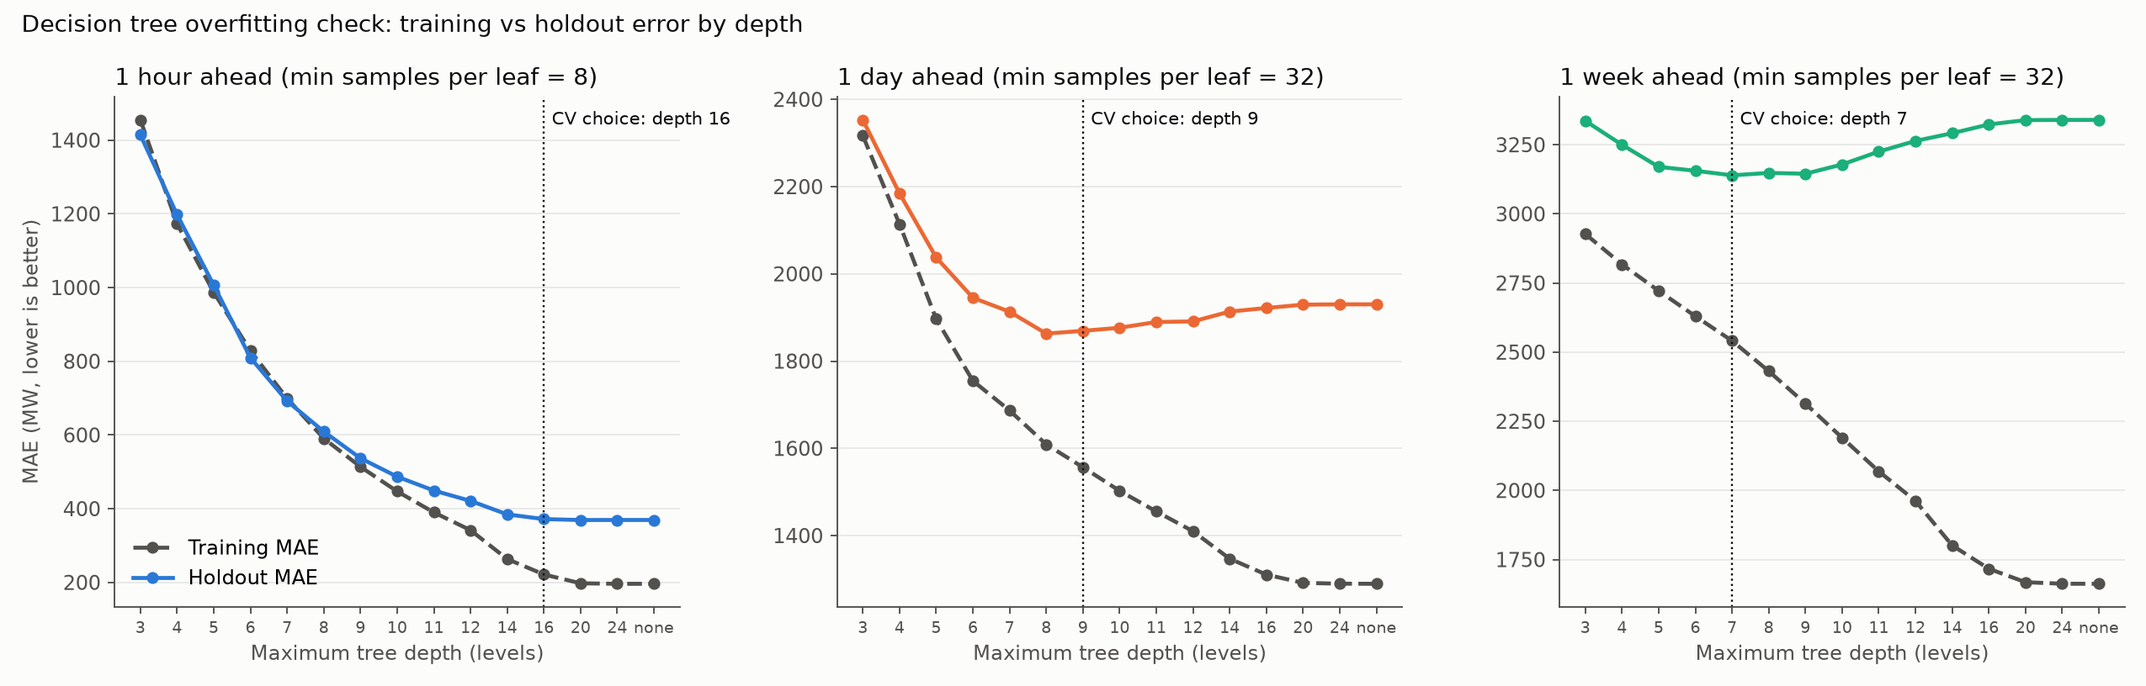
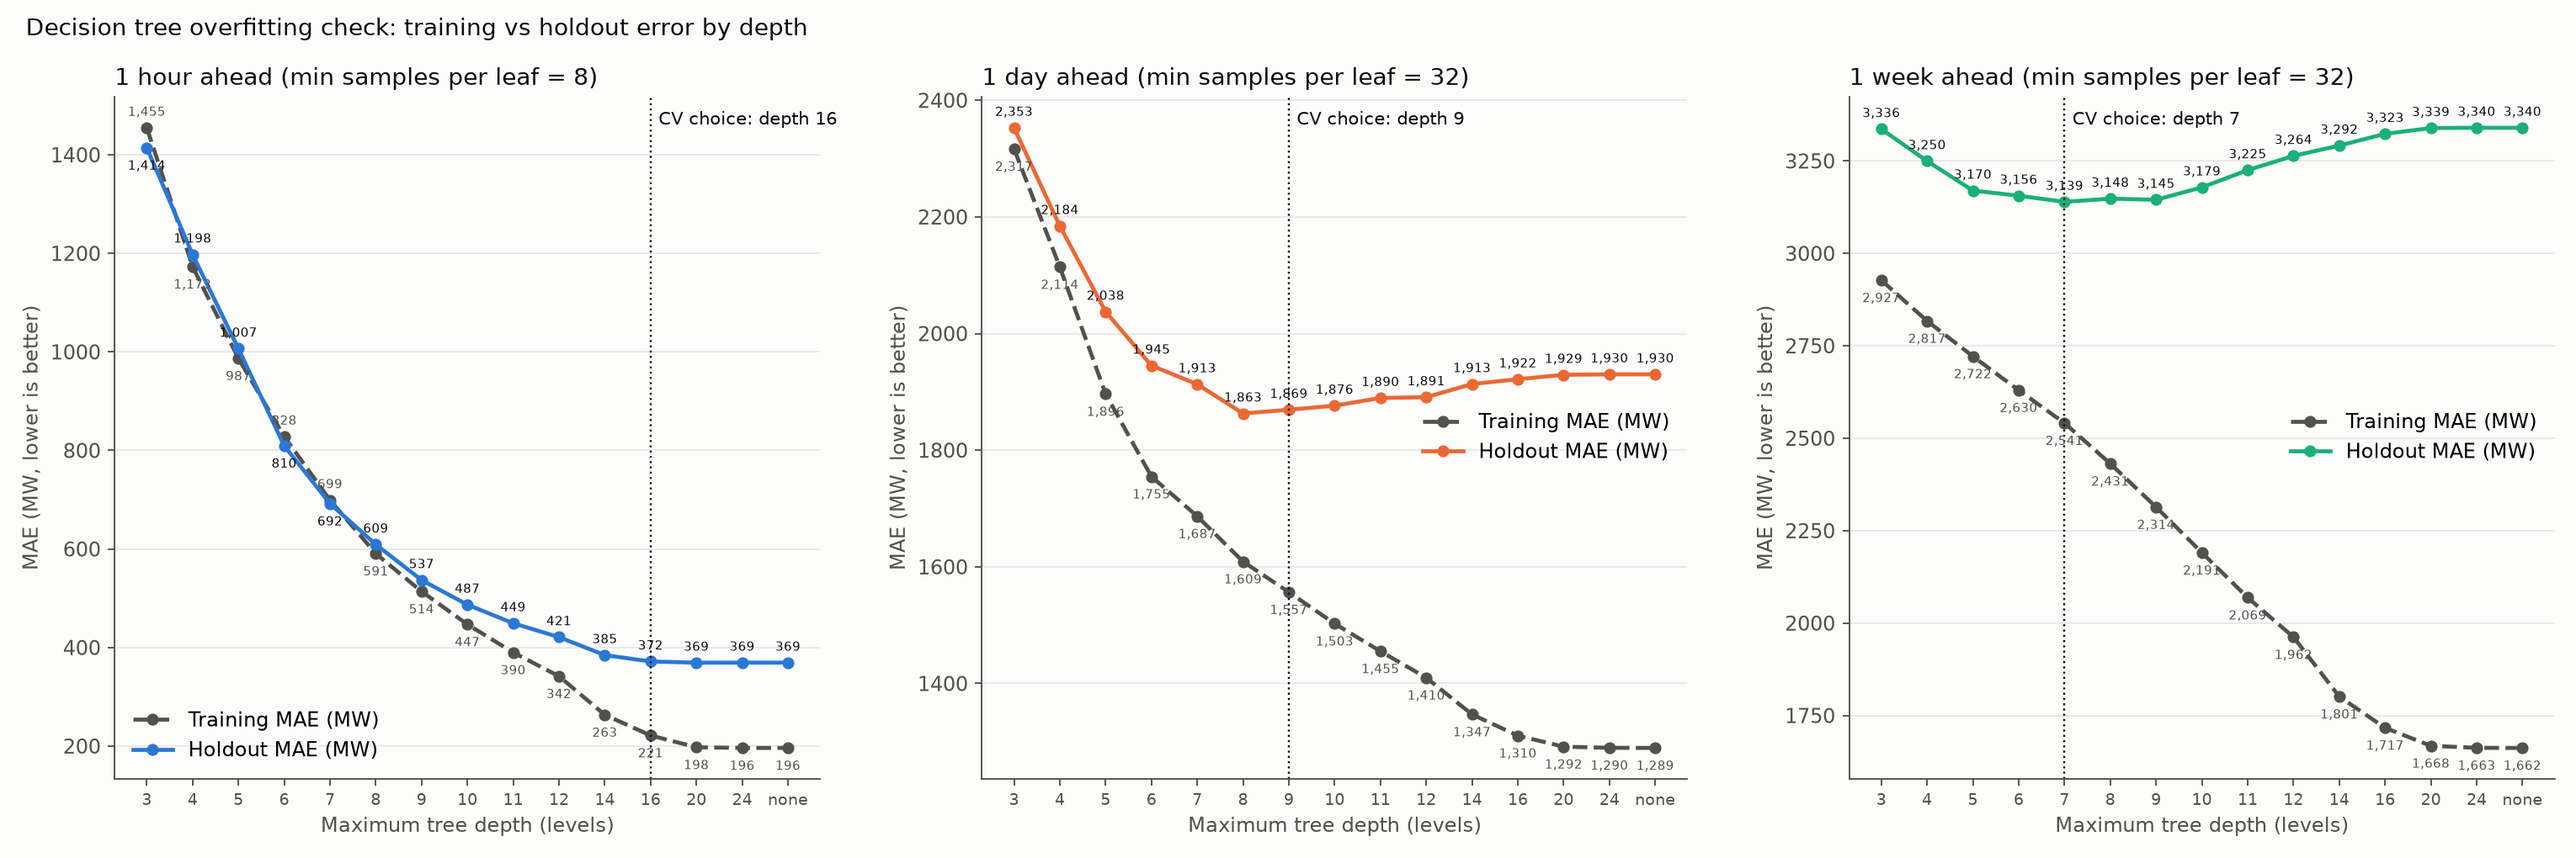
Add data labels and per-panel legends to horizon charts
- Label every point and bar on the PCA cumulative variance and NNMF
  reconstruction quality charts (in %), with PC1-PC25 ticks.
- Label every training and holdout point on the decision tree depth curve
  (MW) and give each horizon panel its own legend and y-axis label.
- Update the chart captions in horizon_report.md to match.

diff --git a/src/energy_forecasting/horizon_experiment.py b/src/energy_forecasting/horizon_experiment.py
@@ -188,18 +188,24 @@ def write_variance_curves(features: pd.DataFrame, output: Path) -> None:
     pca_curve, nnmf_curve = variance_curves(features)
     pca_curve.to_csv(output / "pca_cumulative_variance.csv", index=False)
     nnmf_curve.to_csv(output / "nnmf_rank_quality.csv", index=False)
+    plot_variance_curves(pca_curve, nnmf_curve, output)
+
+
+def plot_variance_curves(pca_curve: pd.DataFrame, nnmf_curve: pd.DataFrame, output: Path) -> None:
+    """Draw both variance charts from their CSV tables (so they can be redrawn without refitting)."""
     _plot_curve(
         pca_curve["component"], pca_curve["cumulative_variance"],
-        "Number of principal components (count)",
-        "Cumulative variance explained (fraction of total, 0-1)",
+        "Principal component (PC1 = largest; cumulative line includes every PC up to this one)",
+        "Variance explained (% of total)",
         "PCA on the model feature table: cumulative variance explained",
         output / "pca_cumulative_variance.png",
         bars=pca_curve["explained_variance_ratio"],
+        tick_prefix="PC",
     )
     _plot_curve(
         nnmf_curve["rank"], nnmf_curve["reconstruction_quality"],
-        "NNMF rank (number of factors, count)",
-        "Reconstruction quality (R², fraction 0-1)",
+        "NNMF rank (number of factors)",
+        "Reconstruction quality (R², % of variance rebuilt)",
         "NNMF on the model feature table: reconstruction quality by rank",
         output / "nnmf_rank_quality.png",
     )
@@ -511,30 +517,49 @@ def _style(axis) -> None:
     axis.tick_params(colors=TEXT_SECONDARY)
 
 
-def _plot_curve(x, y, xlabel: str, ylabel: str, title: str, path: Path, bars=None) -> None:
-    figure, axis = plt.subplots(figsize=(10, 4.8), facecolor=SURFACE)
+def _plot_curve(x, y, xlabel: str, ylabel: str, title: str, path: Path, bars=None,
+                tick_prefix: str = "") -> None:
+    """Line (cumulative) with optional per-component bars; every point and bar is labelled in %."""
+    x = pd.Series(x).reset_index(drop=True)
+    y = pd.Series(y).reset_index(drop=True) * 100
+    figure, axis = plt.subplots(figsize=(15, 6), facecolor=SURFACE)
     if bars is not None:
-        axis.bar(x, bars, width=0.7, color="#9ec5f0", label="Per component")
+        bars = pd.Series(bars).reset_index(drop=True) * 100
+        drawn = axis.bar(x, bars, width=0.7, color="#9ec5f0", label="Per component (% of total)")
+        for index, (rect, value) in enumerate(zip(drawn, bars)):
+            text = f"{value:.1f}%" if value >= 0.05 else "<0.1%"
+            if index == 0:  # first bar top coincides with the first cumulative point
+                axis.text(rect.get_x() + rect.get_width() / 2, value / 2, text, ha="center",
+                          va="center", fontsize=8, color=TEXT_PRIMARY)
+            else:
+                axis.text(rect.get_x() + rect.get_width() / 2, value + 0.8, text, ha="center",
+                          va="bottom", fontsize=7.5, color=TEXT_SECONDARY)
     axis.plot(x, y, color=HORIZON_COLORS["1 hour"], linewidth=2, marker="o", markersize=5,
-              label="Cumulative" if bars is not None else None)
-    axis.axhline(VARIANCE_TARGET, color=TEXT_SECONDARY, linestyle="--", linewidth=1)
-    axis.text(x.iloc[-1], VARIANCE_TARGET + 0.015, "95% threshold", ha="right",
-              fontsize=9, color=TEXT_SECONDARY)
-    chosen = int(x[y >= VARIANCE_TARGET].iloc[0]) if (y >= VARIANCE_TARGET).any() else None
-    if chosen is not None:
-        value = float(y[x == chosen].iloc[0])
-        axis.annotate(f"{chosen} needed ({value:.1%})", (chosen, value), xytext=(10, -28),
-                      textcoords="offset points", fontsize=9, color=TEXT_PRIMARY,
-                      arrowprops={"arrowstyle": "-", "color": TEXT_SECONDARY})
-    axis.set_xticks(list(x))
-    axis.set_ylim(0, 1.05)
+              label="Cumulative (% of total)" if bars is not None else "Quality (% rebuilt)")
+    for xi, yi in zip(x, y):
+        axis.annotate(f"{yi:.1f}%", (xi, yi), xytext=(0, 7), textcoords="offset points",
+                      ha="center", fontsize=7.5, color=TEXT_PRIMARY, zorder=5,
+                      bbox={"boxstyle": "square,pad=0.1", "facecolor": SURFACE, "edgecolor": "none"})
+    target = VARIANCE_TARGET * 100
+    axis.axhline(target, color=TEXT_SECONDARY, linestyle="--", linewidth=1)
+    axis.text(x.iloc[0] - 0.4, target + 1.2, "95% threshold", ha="left", fontsize=9,
+              color=TEXT_SECONDARY)
+    reached = y >= target
+    if reached.any():
+        position = int(reached.idxmax())
+        name = f"{tick_prefix}{int(x[position])}" if tick_prefix else f"rank {int(x[position])}"
+        axis.annotate(f"95% reached at {name} ({y[position]:.1f}%)", (x[position], y[position]),
+                      xytext=(25, -45), textcoords="offset points", fontsize=9,
+                      color=TEXT_PRIMARY, arrowprops={"arrowstyle": "-", "color": TEXT_SECONDARY})
+    axis.set_xticks(list(x), [f"{tick_prefix}{int(value)}" for value in x],
+                    fontsize=8 if tick_prefix else 9)
+    axis.set_ylim(0, 108)
     axis.set_xlabel(xlabel, color=TEXT_SECONDARY)
     axis.set_ylabel(ylabel, color=TEXT_SECONDARY)
     axis.set_title(title, color=TEXT_PRIMARY, loc="left")
     axis.grid(axis="y", alpha=0.25)
     axis.set_axisbelow(True)
-    if bars is not None:
-        axis.legend(frameon=False, loc="center right")
+    axis.legend(frameon=False, loc="center right")
     _style(axis)
     figure.tight_layout()
     figure.savefig(path, dpi=170, facecolor=SURFACE)
@@ -640,14 +665,26 @@ def _plot_mae(metrics: pd.DataFrame, labels: list[str], output: Path) -> None:
 
 def _plot_depth_curve(depth_curve: pd.DataFrame, labels: list[str], output: Path) -> None:
     """Training vs holdout MAE by max depth, one panel per horizon (overfitting check)."""
-    figure, axes = plt.subplots(1, len(labels), figsize=(15, 4.8), facecolor=SURFACE)
+    figure, axes = plt.subplots(1, len(labels), figsize=(18, 6), facecolor=SURFACE)
     for axis, label in zip(np.atleast_1d(axes), labels):
         frame = depth_curve[depth_curve["horizon"] == label].reset_index(drop=True)
         x = np.arange(len(frame))
         axis.plot(x, frame["train_mae_mw"], color=TEXT_SECONDARY, linewidth=2, marker="o",
-                  markersize=5, linestyle="--", label="Training MAE")
+                  markersize=5, linestyle="--", label="Training MAE (MW)")
         axis.plot(x, frame["holdout_mae_mw"], color=HORIZON_COLORS[label], linewidth=2,
-                  marker="o", markersize=5, label="Holdout MAE")
+                  marker="o", markersize=5, label="Holdout MAE (MW)")
+        for xi, train_value, holdout_value in zip(
+            x, frame["train_mae_mw"], frame["holdout_mae_mw"]
+        ):
+            # Higher value labelled above its point, lower value below, so crossing lines
+            # never put two labels in the same place.
+            holdout_up = holdout_value >= train_value
+            axis.annotate(f"{holdout_value:,.0f}", (xi, holdout_value),
+                          xytext=(0, 6 if holdout_up else -11), textcoords="offset points",
+                          ha="center", fontsize=6.5, color=TEXT_PRIMARY)
+            axis.annotate(f"{train_value:,.0f}", (xi, train_value),
+                          xytext=(0, -11 if holdout_up else 6), textcoords="offset points",
+                          ha="center", fontsize=6.5, color=TEXT_SECONDARY)
         selected = str(frame["selected_depth"].iloc[0] or "none")
         position = frame.index[frame["max_depth"].astype(str) == selected]
         if len(position):
@@ -664,8 +701,10 @@ def _plot_depth_curve(depth_curve: pd.DataFrame, labels: list[str], output: Path
         axis.grid(axis="y", alpha=0.25)
         axis.set_axisbelow(True)
         _style(axis)
-    np.atleast_1d(axes)[0].set_ylabel("MAE (MW, lower is better)", color=TEXT_SECONDARY)
-    np.atleast_1d(axes)[0].legend(frameon=False)
+    for index, axis in enumerate(np.atleast_1d(axes)):
+        # Every panel gets its own legend: the holdout line colour changes with the horizon.
+        axis.set_ylabel("MAE (MW, lower is better)", color=TEXT_SECONDARY)
+        axis.legend(frameon=False, loc="lower left" if index == 0 else "center right")
     figure.suptitle("Decision tree overfitting check: training vs holdout error by depth",
                     color=TEXT_PRIMARY, x=0.01, ha="left")
     figure.tight_layout()

diff --git a/reports/horizons/horizon_report.md b/reports/horizons/horizon_report.md
@@ -185,8 +185,8 @@ The random forest's settings and errors are unchanged by the re-tuning.
 ![Decision tree training vs holdout error by depth](tree_depth_curve.png)
 
 `tree_depth_curve.png` — x axis: maximum tree depth (levels); y axis: MAE (MW, lower is better);
-dashed grey = training MAE, solid = holdout MAE; dotted vertical line = cross-validation choice.
-Data: `tree_depth_curve.csv`.
+dashed grey = training MAE, solid = holdout MAE, every point labelled with its MAE (MW); dotted
+vertical line = cross-validation choice. Data: `tree_depth_curve.csv`.
 
 **1 hour ahead** (min samples per leaf = 8; 114,470 training rows)
 
@@ -257,14 +257,16 @@ Data: `tree_depth_curve.csv`.
 
 ![PCA cumulative variance explained](pca_cumulative_variance.png)
 
-`pca_cumulative_variance.png` — x axis: number of principal components (count); y axis: cumulative
-variance explained (fraction of total, 0–1); bars: variance explained by each component (fraction);
-dashed line: 95% threshold. Data: `pca_cumulative_variance.csv`.
+`pca_cumulative_variance.png` — x axis: principal component (PC1–PC25); y axis: variance
+explained (% of total); line: cumulative variance up to that component, each point labelled (%);
+bars: variance explained by that component alone, each bar labelled (%); dashed line: 95%
+threshold. Data: `pca_cumulative_variance.csv` (stored as fractions; × 100 for %).
 
 ![NNMF reconstruction quality by rank](nnmf_rank_quality.png)
 
-`nnmf_rank_quality.png` — x axis: NNMF rank (number of factors, count); y axis: reconstruction
-quality (R², fraction 0–1); dashed line: 95% threshold. Data: `nnmf_rank_quality.csv`.
+`nnmf_rank_quality.png` — x axis: NNMF rank (number of factors); y axis: reconstruction quality
+(R², % of variance rebuilt), each point labelled (%); dashed line: 95% threshold. Data:
+`nnmf_rank_quality.csv` (stored as fractions; × 100 for %).
 
 | Method | Components kept (count) | Variance explained / quality at that size (%) | First component (%) |
 | --- | ---: | ---: | --- |
